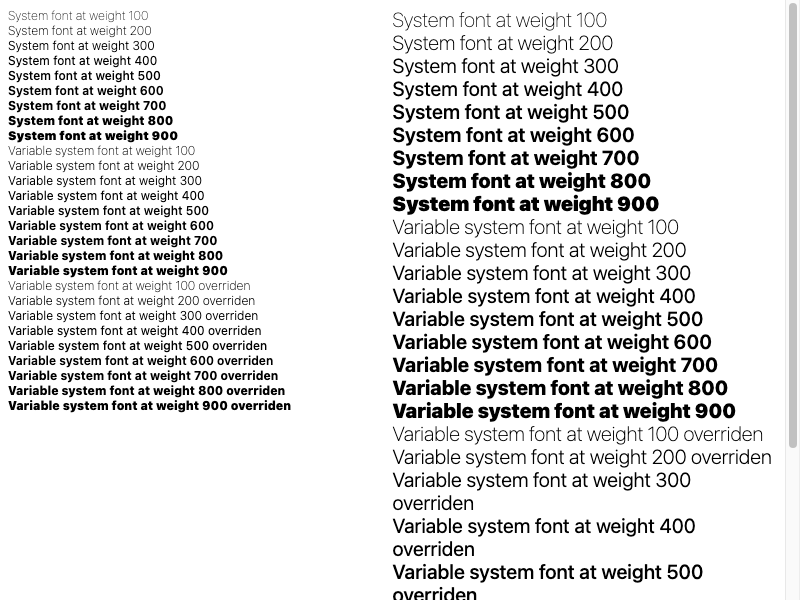
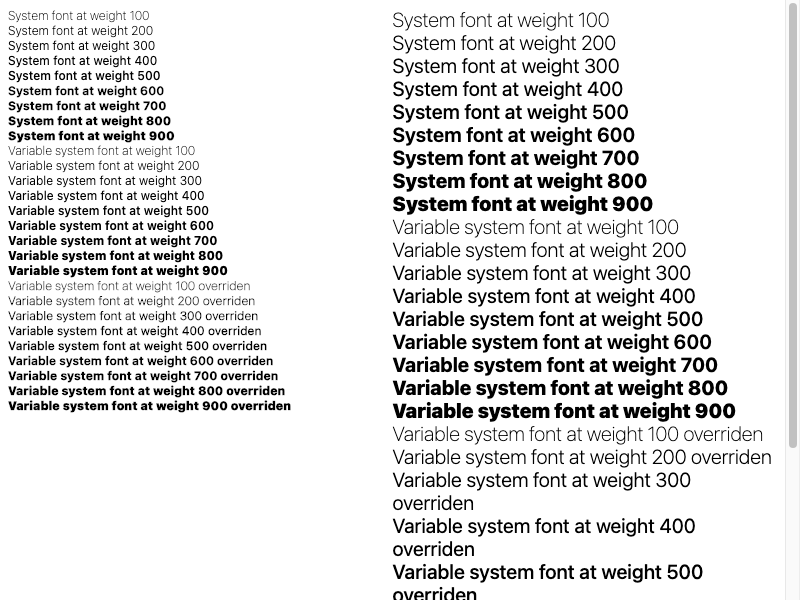
Add variations support for mac system-ui font
Support font weight, style and stretch variations for Mac system-ui
font. Migrate system-ui Mac font matching from AppKit API to CoreText.

Bug: 1466857
Validate-Test-Flakiness: skip
Commit-Queue: Munira Tursunova <moonira@google.com>
Cr-Commit-Position: refs/heads/main@{#1212635}

diff --git a/web_tests/virtual/text-antialias/mac-system-ui-width.html b/web_tests/virtual/text-antialias/mac-system-ui-width.html
@@ -1,0 +1,132 @@
+<!DOCTYPE html>
+<style>
+  .system-ui-font {
+    font-family: system-ui, cursive;
+  }
+</style>
+<div style="display: flex;">
+  <div style="flex: 1; font-size: 12px;">
+    <div class="system-ui-font" style="font-stretch: 10%;">System font at width 10</div>
+    <div class="system-ui-font" style="font-stretch: 30%;">System font at width 30</div>
+    <div class="system-ui-font" style="font-stretch: 40%;">System font at width 40</div>
+    <div class="system-ui-font" style="font-stretch: 50%;">System font at width 50</div>
+    <div class="system-ui-font" style="font-stretch: 60%;">System font at width 60</div>
+    <div class="system-ui-font" style="font-stretch: 70%;">System font at width 70</div>
+    <div class="system-ui-font" style="font-stretch: 80%;">System font at width 80</div>
+    <div class="system-ui-font" style="font-stretch: 90%;">System font at width 90</div>
+    <div class="system-ui-font" style="font-stretch: 100%;">System font at width 100</div>
+    <div class="system-ui-font" style="font-stretch: 110%;">System font at width 110</div>
+    <div class="system-ui-font" style="font-stretch: 120%;">System font at width 120</div>
+    <div class="system-ui-font" style="font-stretch: 130%;">System font at width 130</div>
+    <div class="system-ui-font" style="font-stretch: 140%;">System font at width 140</div>
+    <div class="system-ui-font" style="font-stretch: 150%;">System font at width 150</div>
+    <div class="system-ui-font" style="font-stretch: 200%;">System font at width 200</div>
+    <div class="system-ui-font" style="font-variation-settings: 'wdth' 10;">Variable system font at width 10</div>
+    <div class="system-ui-font" style="font-variation-settings: 'wdth' 30;">Variable system font at width 30</div>
+    <div class="system-ui-font" style="font-variation-settings: 'wdth' 40;">Variable system font at width 40</div>
+    <div class="system-ui-font" style="font-variation-settings: 'wdth' 50;">Variable system font at width 50</div>
+    <div class="system-ui-font" style="font-variation-settings: 'wdth' 60;">Variable system font at width 60</div>
+    <div class="system-ui-font" style="font-variation-settings: 'wdth' 70;">Variable system font at width 70</div>
+    <div class="system-ui-font" style="font-variation-settings: 'wdth' 80;">Variable system font at width 80</div>
+    <div class="system-ui-font" style="font-variation-settings: 'wdth' 90;">Variable system font at width 90</div>
+    <div class="system-ui-font" style="font-variation-settings: 'wdth' 100;">Variable system font at width 100</div>
+    <div class="system-ui-font" style="font-variation-settings: 'wdth' 110;">Variable system font at width 110</div>
+    <div class="system-ui-font" style="font-variation-settings: 'wdth' 120;">Variable system font at width 120</div>
+    <div class="system-ui-font" style="font-variation-settings: 'wdth' 130;">Variable system font at width 130</div>
+    <div class="system-ui-font" style="font-variation-settings: 'wdth' 140;">Variable system font at width 140</div>
+    <div class="system-ui-font" style="font-variation-settings: 'wdth' 150;">Variable system font at width 150</div>
+    <div class="system-ui-font" style="font-variation-settings: 'wdth' 200;">Variable system font at width 200</div>
+    <div class="system-ui-font" style="font-stretch: 110%; font-variation-settings: 'wdth' 10;">Variable system font at
+      width 10 overriden</div>
+    <div class="system-ui-font" style="font-stretch: 110%; font-variation-settings: 'wdth' 30;">Variable system font at
+      width 30 overriden</div>
+    <div class="system-ui-font" style="font-stretch: 110%; font-variation-settings: 'wdth' 40;">Variable system font at
+      width 40 overriden</div>
+    <div class="system-ui-font" style="font-stretch: 110%; font-variation-settings: 'wdth' 50;">Variable system font at
+      width 50 overriden</div>
+    <div class="system-ui-font" style="font-stretch: 110%; font-variation-settings: 'wdth' 60;">Variable system font at
+      width 60 overriden</div>
+    <div class="system-ui-font" style="font-stretch: 110%; font-variation-settings: 'wdth' 70;">Variable system font at
+      width 70 overriden</div>
+    <div class="system-ui-font" style="font-stretch: 110%; font-variation-settings: 'wdth' 80;">Variable system font at
+      width 80 overriden</div>
+    <div class="system-ui-font" style="font-stretch: 110%; font-variation-settings: 'wdth' 90;">Variable system font at
+      width 90 overriden</div>
+    <div class="system-ui-font" style="font-stretch: 110%; font-variation-settings: 'wdth' 100;">Variable system font at
+      width 100 overriden</div>
+    <div class="system-ui-font" style="font-stretch: 110%; font-variation-settings: 'wdth' 110;">Variable system font at
+      width 110 overriden</div>
+    <div class="system-ui-font" style="font-stretch: 110%; font-variation-settings: 'wdth' 120;">Variable system font at
+      width 120 overriden</div>
+    <div class="system-ui-font" style="font-stretch: 110%; font-variation-settings: 'wdth' 130;">Variable system font at
+      width 130 overriden</div>
+    <div class="system-ui-font" style="font-stretch: 110%; font-variation-settings: 'wdth' 140;">Variable system font at
+      width 140 overriden</div>
+    <div class="system-ui-font" style="font-stretch: 110%; font-variation-settings: 'wdth' 150;">Variable system font at
+      width 150 overriden</div>
+    <div class="system-ui-font" style="font-stretch: 110%; font-variation-settings: 'wdth' 200;">Variable system font at
+      width 200 overriden</div>
+  </div>
+  <div style="flex: 1; font-size: 20px;">
+    <div class="system-ui-font" style="font-stretch: 10%;">System font at width 10</div>
+    <div class="system-ui-font" style="font-stretch: 30%;">System font at width 30</div>
+    <div class="system-ui-font" style="font-stretch: 40%;">System font at width 40</div>
+    <div class="system-ui-font" style="font-stretch: 50%;">System font at width 50</div>
+    <div class="system-ui-font" style="font-stretch: 60%;">System font at width 60</div>
+    <div class="system-ui-font" style="font-stretch: 70%;">System font at width 70</div>
+    <div class="system-ui-font" style="font-stretch: 80%;">System font at width 80</div>
+    <div class="system-ui-font" style="font-stretch: 90%;">System font at width 90</div>
+    <div class="system-ui-font" style="font-stretch: 100%;">System font at width 100</div>
+    <div class="system-ui-font" style="font-stretch: 110%;">System font at width 110</div>
+    <div class="system-ui-font" style="font-stretch: 120%;">System font at width 120</div>
+    <div class="system-ui-font" style="font-stretch: 130%;">System font at width 130</div>
+    <div class="system-ui-font" style="font-stretch: 140%;">System font at width 140</div>
+    <div class="system-ui-font" style="font-stretch: 150%;">System font at width 150</div>
+    <div class="system-ui-font" style="font-stretch: 200%;">System font at width 200</div>
+    <div class="system-ui-font" style="font-variation-settings: 'wdth' 10;">Variable system font at width 10</div>
+    <div class="system-ui-font" style="font-variation-settings: 'wdth' 30;">Variable system font at width 30</div>
+    <div class="system-ui-font" style="font-variation-settings: 'wdth' 40;">Variable system font at width 40</div>
+    <div class="system-ui-font" style="font-variation-settings: 'wdth' 50;">Variable system font at width 50</div>
+    <div class="system-ui-font" style="font-variation-settings: 'wdth' 60;">Variable system font at width 60</div>
+    <div class="system-ui-font" style="font-variation-settings: 'wdth' 70;">Variable system font at width 70</div>
+    <div class="system-ui-font" style="font-variation-settings: 'wdth' 80;">Variable system font at width 80</div>
+    <div class="system-ui-font" style="font-variation-settings: 'wdth' 90;">Variable system font at width 90</div>
+    <div class="system-ui-font" style="font-variation-settings: 'wdth' 100;">Variable system font at width 100</div>
+    <div class="system-ui-font" style="font-variation-settings: 'wdth' 110;">Variable system font at width 110</div>
+    <div class="system-ui-font" style="font-variation-settings: 'wdth' 120;">Variable system font at width 120</div>
+    <div class="system-ui-font" style="font-variation-settings: 'wdth' 130;">Variable system font at width 130</div>
+    <div class="system-ui-font" style="font-variation-settings: 'wdth' 140;">Variable system font at width 140</div>
+    <div class="system-ui-font" style="font-variation-settings: 'wdth' 150;">Variable system font at width 150</div>
+    <div class="system-ui-font" style="font-variation-settings: 'wdth' 200;">Variable system font at width 200</div>
+    <div class="system-ui-font" style="font-stretch: 110%; font-variation-settings: 'wdth' 10;">Variable system font at
+      width 10 overriden</div>
+    <div class="system-ui-font" style="font-stretch: 110%; font-variation-settings: 'wdth' 30;">Variable system font at
+      width 30 overriden</div>
+    <div class="system-ui-font" style="font-stretch: 110%; font-variation-settings: 'wdth' 40;">Variable system font at
+      width 40 overriden</div>
+    <div class="system-ui-font" style="font-stretch: 110%; font-variation-settings: 'wdth' 50;">Variable system font at
+      width 50 overriden</div>
+    <div class="system-ui-font" style="font-stretch: 110%; font-variation-settings: 'wdth' 60;">Variable system font at
+      width 60 overriden</div>
+    <div class="system-ui-font" style="font-stretch: 110%; font-variation-settings: 'wdth' 70;">Variable system font at
+      width 70 overriden</div>
+    <div class="system-ui-font" style="font-stretch: 110%; font-variation-settings: 'wdth' 80;">Variable system font at
+      width 80 overriden</div>
+    <div class="system-ui-font" style="font-stretch: 110%; font-variation-settings: 'wdth' 90;">Variable system font at
+      width 90 overriden</div>
+    <div class="system-ui-font" style="font-stretch: 110%; font-variation-settings: 'wdth' 100;">Variable system font at
+      width 100 overriden</div>
+    <div class="system-ui-font" style="font-stretch: 110%; font-variation-settings: 'wdth' 110;">Variable system font at
+      width 110 overriden</div>
+    <div class="system-ui-font" style="font-stretch: 110%; font-variation-settings: 'wdth' 120;">Variable system font at
+      width 120 overriden</div>
+    <div class="system-ui-font" style="font-stretch: 110%; font-variation-settings: 'wdth' 130;">Variable system font at
+      width 130 overriden</div>
+    <div class="system-ui-font" style="font-stretch: 110%; font-variation-settings: 'wdth' 140;">Variable system font at
+      width 140 overriden</div>
+    <div class="system-ui-font" style="font-stretch: 110%; font-variation-settings: 'wdth' 150;">Variable system font at
+      width 150 overriden</div>
+    <div class="system-ui-font" style="font-stretch: 110%; font-variation-settings: 'wdth' 200;">Variable system font at
+      width 200 overriden</div>
+  </div>
+</div>

diff --git a/renderer/platform/fonts/mac/font_matcher_mac.mm b/renderer/platform/fonts/mac/font_matcher_mac.mm
@@ -30,6 +30,7 @@
 #import "third_party/blink/renderer/platform/fonts/mac/font_matcher_mac.h"
 
 #import <AppKit/AppKit.h>
+#import <CoreText/CoreText.h>
 #import <Foundation/Foundation.h>
 #import <math.h>
 
@@ -37,7 +38,10 @@
 #include "base/apple/foundation_util.h"
 #include "base/apple/scoped_cftyperef.h"
 #include "third_party/blink/renderer/platform/fonts/font_cache.h"
+#include "third_party/blink/renderer/platform/fonts/font_selection_types.h"
+#include "third_party/blink/renderer/platform/fonts/opentype/font_settings.h"
 #import "third_party/blink/renderer/platform/wtf/hash_set.h"
+#include "third_party/blink/renderer/platform/wtf/text/atomic_string.h"
 #import "third_party/blink/renderer/platform/wtf/text/atomic_string_hash.h"
 
 namespace blink {
@@ -51,6 +55,10 @@ const NSFontTraitMask IMPORTANT_FONT_TRAITS =
     (NSCompressedFontMask | NSCondensedFontMask | NSExpandedFontMask |
      NSItalicFontMask | NSNarrowFontMask | NSPosterFontMask |
      NSSmallCapsFontMask);
+
+const char kWeightTag[] = "wght";
+const char kSlantTag[] = "slnt";
+const char kWidthTag[] = "wdth";
 
 BOOL AcceptableChoice(NSFontTraitMask desired_traits,
                       NSFontTraitMask candidate_traits) {
@@ -99,19 +107,90 @@ BOOL BetterChoice(NSFontTraitMask desired_traits,
   return candidate_weight_delta_magnitude < chosen_weight_delta_magnitude;
 }
 
-NSFontWeight ToFontWeight(blink::FontSelectionValue font_weight) {
-  if (font_weight <= 50 || font_weight >= 950)
-    return NSFontWeightRegular;
+absl::optional<FontSelectionValue> ClampValueToVariationAxisRange(
+    FontSelectionValue desired_value,
+    CFDictionaryRef axis) {
+  CFNumberRef axis_min_number =
+      base::apple::GetValueFromDictionary<CFNumberRef>(
+          axis, kCTFontVariationAxisMinimumValueKey);
+  double axis_min_value = 0.0;
+  if (!axis_min_number ||
+      !CFNumberGetValue(axis_min_number, kCFNumberDoubleType,
+                        &axis_min_value)) {
+    return absl::nullopt;
+  }
 
-  const NSFontWeight ns_font_weights[] = {
-      NSFontWeightUltraLight, NSFontWeightThin,   NSFontWeightLight,
-      NSFontWeightRegular,    NSFontWeightMedium, NSFontWeightSemibold,
-      NSFontWeightBold,       NSFontWeightHeavy,  NSFontWeightBlack,
-  };
-  size_t select_weight = roundf(font_weight / 100) - 1;
-  DCHECK_GE(select_weight, 0ul);
-  DCHECK_LE(select_weight, std::size(ns_font_weights));
-  return ns_font_weights[select_weight];
+  CFNumberRef axis_max_number =
+      base::apple::GetValueFromDictionary<CFNumberRef>(
+          axis, kCTFontVariationAxisMaximumValueKey);
+  double axis_max_value = 0.0;
+  if (!axis_max_number ||
+      !CFNumberGetValue(axis_max_number, kCFNumberDoubleType,
+                        &axis_max_value)) {
+    return absl::nullopt;
+  }
+
+  FontSelectionRange capabilities_range(
+      {FontSelectionValue(axis_min_value), FontSelectionValue(axis_max_value)});
+  return capabilities_range.clampToRange(desired_value);
+}
+
+base::apple::ScopedCFTypeRef<CTFontDescriptorRef>
+GetUIFontDescriptorWithVariation(float size,
+                                 FontSelectionValue desired_weight,
+                                 FontSelectionValue desired_slant,
+                                 FontSelectionValue desired_width) {
+  base::apple::ScopedCFTypeRef<CTFontRef> ct_font(
+      CTFontCreateUIFontForLanguage(kCTFontUIFontSystem, size, nullptr));
+  base::apple::ScopedCFTypeRef<CTFontDescriptorRef> ct_font_desc(
+      CTFontCopyFontDescriptor(ct_font));
+
+  base::apple::ScopedCFTypeRef<CFArrayRef> all_axes(
+      CTFontCopyVariationAxes(ct_font));
+  for (CFIndex i = 0; i < CFArrayGetCount(all_axes); ++i) {
+    CFDictionaryRef axis = base::apple::CFCast<CFDictionaryRef>(
+        CFArrayGetValueAtIndex(all_axes, i));
+    if (!axis) {
+      continue;
+    }
+
+    CFNumberRef axis_id = base::apple::GetValueFromDictionary<CFNumberRef>(
+        axis, kCTFontVariationAxisIdentifierKey);
+    if (!axis_id) {
+      continue;
+    }
+    uint32_t axis_id_value;
+    if (!CFNumberGetValue(axis_id, kCFNumberLongLongType, &axis_id_value)) {
+      continue;
+    }
+
+    AtomicString axis_tag = FourByteTagToAtomicString(axis_id_value);
+    if (axis_tag == kWeightTag && desired_weight != kNormalWeightValue) {
+      absl::optional<FontSelectionValue> clamped_weight =
+          ClampValueToVariationAxisRange(desired_weight, axis);
+      if (clamped_weight.has_value()) {
+        ct_font_desc.reset(CTFontDescriptorCreateCopyWithVariation(
+            ct_font_desc, axis_id, *clamped_weight));
+      }
+    }
+    if (axis_tag == kWidthTag && desired_width != kNormalWidthValue) {
+      absl::optional<FontSelectionValue> clamped_width =
+          ClampValueToVariationAxisRange(desired_width, axis);
+      if (clamped_width.has_value()) {
+        ct_font_desc.reset(CTFontDescriptorCreateCopyWithVariation(
+            ct_font_desc, axis_id, *clamped_width));
+      }
+    }
+    if (axis_tag == kSlantTag && desired_slant != kNormalSlopeValue) {
+      absl::optional<FontSelectionValue> clamped_slant =
+          ClampValueToVariationAxisRange(desired_slant, axis);
+      if (clamped_slant.has_value()) {
+        ct_font_desc.reset(CTFontDescriptorCreateCopyWithVariation(
+            ct_font_desc, axis_id, *clamped_slant));
+      }
+    }
+  }
+  return ct_font_desc;
 }
 
 }  // namespace
@@ -159,16 +238,17 @@ NSFont* MatchUniqueFont(const AtomicString& unique_font_name, float size) {
 NSFont* MatchNSFontFamily(const AtomicString& desired_family_string,
                           NSFontTraitMask desired_traits,
                           FontSelectionValue desired_weight,
+                          FontSelectionValue desired_slant,
+                          FontSelectionValue desired_width,
                           float size) {
   DCHECK_NE(desired_family_string, FontCache::LegacySystemFontFamily());
 
   if (desired_family_string == font_family_names::kSystemUi) {
-    NSFont* font = [NSFont systemFontOfSize:size
-                                     weight:ToFontWeight(desired_weight)];
-    if (desired_traits & IMPORTANT_FONT_TRAITS)
-      font = [NSFontManager.sharedFontManager convertFont:font
-                                              toHaveTrait:desired_traits];
-    return font;
+    base::apple::ScopedCFTypeRef<CTFontDescriptorRef>
+        ct_font_desc_with_variations = GetUIFontDescriptorWithVariation(
+            size, desired_weight, desired_slant, desired_width);
+    return base::apple::CFToNSOwnershipCast(CTFontCreateWithFontDescriptor(
+        ct_font_desc_with_variations, size, nullptr));
   }
 
   NSString* desired_family = desired_family_string;

diff --git a/renderer/platform/fonts/mac/font_platform_data_mac_test.mm b/renderer/platform/fonts/mac/font_platform_data_mac_test.mm
@@ -8,6 +8,7 @@
 #include "base/apple/foundation_util.h"
 #include "testing/gtest/include/gtest/gtest.h"
 #include "third_party/blink/renderer/platform/font_family_names.h"
+#include "third_party/blink/renderer/platform/fonts/font_selection_types.h"
 #include "third_party/blink/renderer/platform/fonts/mac/font_matcher_mac.h"
 #include "third_party/skia/include/core/SkTypeface.h"
 #include "third_party/skia/include/ports/SkTypeface_mac.h"
@@ -19,8 +20,9 @@ constexpr SkFourByteTag kOpszTag = SkSetFourByteTag('o', 'p', 's', 'z');
 constexpr SkFourByteTag kWghtTag = SkSetFourByteTag('w', 'g', 'h', 't');
 
 sk_sp<SkTypeface> MakeSystemFontOfSize(float size) {
-  return SkMakeTypefaceFromCTFont(base::apple::NSToCFPtrCast(MatchNSFontFamily(
-      font_family_names::kSystemUi, 0, FontSelectionValue(400), size)));
+  return SkMakeTypefaceFromCTFont(base::apple::NSToCFPtrCast(
+      MatchNSFontFamily(font_family_names::kSystemUi, 0, kNormalWeightValue,
+                        kNormalSlopeValue, kNormalWidthValue, size)));
 }
 }
 

diff --git a/renderer/platform/fonts/mac/font_cache_mac.mm b/renderer/platform/fonts/mac/font_cache_mac.mm
@@ -267,8 +267,9 @@ std::unique_ptr<FontPlatformData> FontCache::CreateFontPlatformData(
       RuntimeEnabledFeatures::FontSrcLocalMatchingEnabled()) {
     matched_font = MatchUniqueFont(creation_params.Family(), size);
   } else {
-    matched_font = MatchNSFontFamily(creation_params.Family(), traits,
-                                     font_description.Weight(), size);
+    matched_font = MatchNSFontFamily(
+        creation_params.Family(), traits, font_description.Weight(),
+        font_description.Style(), font_description.Stretch(), size);
   }
   if (!matched_font)
     return nullptr;

diff --git a/renderer/platform/fonts/mac/font_matcher_mac_test.mm b/renderer/platform/fonts/mac/font_matcher_mac_test.mm
@@ -12,9 +12,12 @@
 namespace blink {
 
 void TestSystemFontContainsString(FontSelectionValue desired_weight,
+                                  FontSelectionValue desired_slant,
+                                  FontSelectionValue desired_width,
                                   NSString* substring) {
   NSFont* font =
-      MatchNSFontFamily(font_family_names::kSystemUi, 0, desired_weight, 11);
+      MatchNSFontFamily(font_family_names::kSystemUi, 0, desired_weight,
+                        desired_slant, desired_width, 11);
   EXPECT_TRUE([font.description containsString:substring]);
 }
 

diff --git a/renderer/platform/fonts/mac/font_matcher_mac.h b/renderer/platform/fonts/mac/font_matcher_mac.h
@@ -38,6 +38,8 @@ namespace blink {
 PLATFORM_EXPORT NSFont* MatchNSFontFamily(const AtomicString& desired_family,
                                           NSFontTraitMask desired_traits,
                                           FontSelectionValue desired_weight,
+                                          FontSelectionValue desired_slant,
+                                          FontSelectionValue desired_width,
                                           float size);
 
 PLATFORM_EXPORT NSFont* MatchUniqueFont(const AtomicString& unique_font_name,
